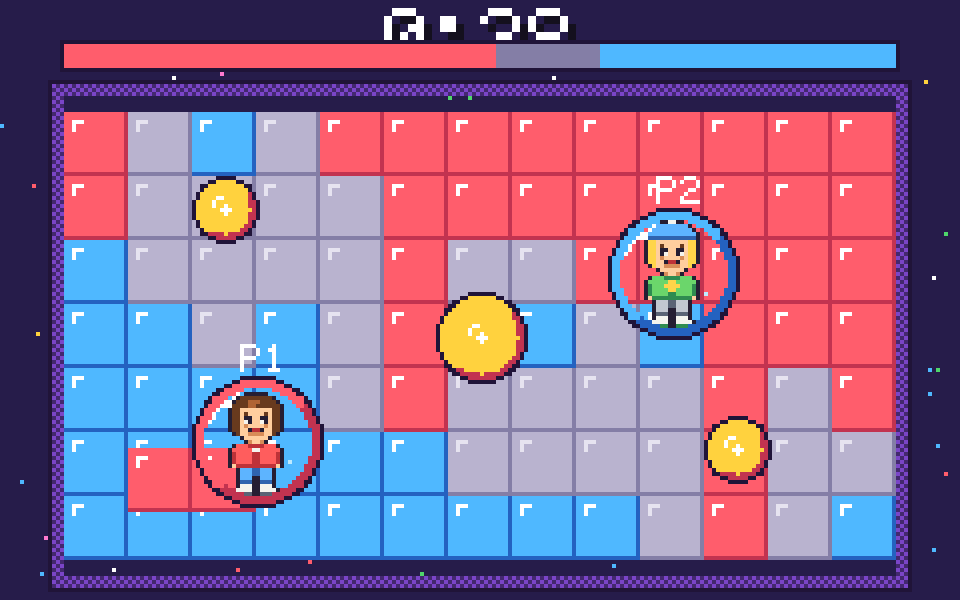
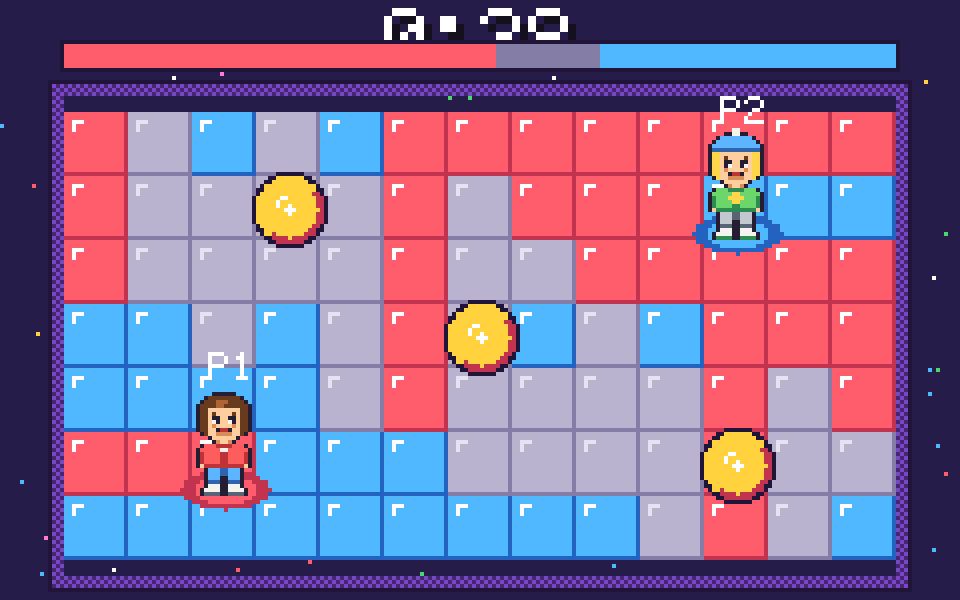
TILE BLITZ art: drop bubbles, grid-align all paint, colored player pads
- Removed the bubble gimmick (not needed); fighters paint the floor directly.
- Each player marked by a coloured ground pad (red P1 / blue P2) tying them to
  their paint colour, instead of a bubble.
- Fixed alignment: every painted tile now snaps to the floor grid (players sit
  on grid cells; painted cells are grid-aligned, no off-grid trail).

Claude-Session: https://claude.ai/code/session_01BmHu9ZjHHfJoGBLXT33Kpc

diff --git a/art/tilebangers.py b/art/tilebangers.py
@@ -44,24 +44,16 @@ TILE_B = tile(PAL["B"], PAL["b"])
 TILES = {0: TILE_N, 1: TILE_R, 2: TILE_B}
 
 # ---------------------------------------------------------------------------
-# glossy bubble ring (drawn over a fighter); light/dark = owner colour
+# colored ground pad under a fighter (marks who they are / their paint colour)
 # ---------------------------------------------------------------------------
-def bubble(img, cx, cy, r, light, dark):
+def pad(img, cx, feetY, light, dark):
     px = img.load(); w, h = img.size
-    for y in range(cy - r - 1, cy + r + 2):
-        for x in range(cx - r - 1, cx + r + 2):
-            d = math.hypot(x - cx, y - cy)
-            if r - 0.4 <= d <= r + 0.5: setpx(px, w, h, x, y, col("K"))
-            elif r - 2.6 <= d < r - 0.4:
-                c = light if (x - cx) + (y - cy) < -1 else (dark if (x - cx) + (y - cy) > 2 else light)
-                setpx(px, w, h, x, y, (*c, 255))
-    # shine: white arc top-left + a glint
-    for t in range(20, 70, 6):
-        a = math.radians(t)
-        setpx(px, w, h, int(cx + (r - 4) * -math.cos(a)), int(cy + (r - 4) * -math.sin(a)), col("W"))
-    setpx(px, w, h, cx - r // 2, cy - r // 2 - 1, col("W")); setpx(px, w, h, cx - r // 2 + 1, cy - r // 2 - 1, col("W"))
-    # faint cyan reflection bottom-right
-    setpx(px, w, h, cx + r // 2, cy + r // 3, col("C"))
+    rw, rh = 11, 5
+    for y in range(-rh, rh + 1):
+        for x in range(-rw, rw + 1):
+            d = (x / rw) ** 2 + (y / rh) ** 2
+            if d <= 1.0:
+                setpx(px, w, h, cx + x, feetY + y, (*(dark if d > 0.5 else light), 255))
 
 def bumper(img, cx, cy, r):
     px = img.load(); w, h = img.size
@@ -101,9 +93,9 @@ def assets_sheet():
     cell(lambda im: im.alpha_composite(TILE_N, (9, 9)), "TILE")
     cell(lambda im: im.alpha_composite(TILE_R, (9, 9)), "P1 TILE")
     cell(lambda im: im.alpha_composite(TILE_B, (9, 9)), "P2 TILE")
-    def b1(im): fighter(im, "PIXEL", 17, 26); bubble(im, 17, 17, 15, PAL["R"], PAL["r"])
-    def b2(im): fighter(im, "BYTE", 17, 26); bubble(im, 17, 17, 15, PAL["B"], PAL["b"])
-    cell(b1, "P1 BUBBLE"); cell(b2, "P2 BUBBLE")
+    def b1(im): pad(im, 17, 29, PAL["R"], PAL["r"]); fighter(im, "PIXEL", 17, 31)
+    def b2(im): pad(im, 17, 29, PAL["B"], PAL["b"]); fighter(im, "BYTE", 17, 31)
+    cell(b1, "P1"); cell(b2, "P2")
     cell(lambda im: bumper(im, 17, 17, 13), "BUMPER")
     cell(lambda im: star(im, 17, 17, "Y"), "PUNCH")
     SCcanvas = Image.new("RGBA", (len(cells) * 60, 84), (*PAL["D"], 255))
@@ -144,32 +136,34 @@ def arena():
                 px[x, y] = col("P") if (x + y) % 2 == 0 else col("p")
     for x in range(fx - 4, fx + fw + 4): px[x, fy - 4] = col("K"); px[x, fy + fh + 3] = col("K")
     for y in range(fy - 4, fy + fh + 4): px[fx - 4, y] = col("K"); px[fx + fw + 3, y] = col("K")
-    # ---- tile floor (paint pattern: red bottom-left, blue top-right, neutral middle) ----
+    # ---- tile floor: every painted tile snaps to the grid ----
     cols, rows = fw // 16, fh // 16
     ox = fx + (fw - cols * 16) // 2; oy = fy + (fh - rows * 16) // 2
+    def cellxy(c, r): return (ox + c * 16, oy + r * 16)
     def state(c, r):
-        import random as _r
         v = (c / cols) - (r / rows)
-        if v < -0.28: return 2
-        if v > 0.30: return 1
+        if v < -0.30: return 2
+        if v > 0.32: return 1
         return (1 if ((c * 7 + r * 5) % 5 == 0) else (2 if ((c * 3 + r) % 6 == 0) else 0))
+    grid = [[state(c, r) for c in range(cols)] for r in range(rows)]
+    # players sit on grid cells; their cell + a short trail are painted (grid-aligned)
+    p1c, p1r = 2, rows - 2
+    p2c, p2r = cols - 3, 1
+    for dc in range(-2, 1): grid[p1r][max(0, p1c + dc)] = 1
+    for dc in range(0, 3): grid[p2r][min(cols - 1, p2c + dc)] = 2
     for r in range(rows):
         for c in range(cols):
-            img.alpha_composite(TILES[state(c, r)], (ox + c * 16, oy + r * 16))
-    # ---- bumpers ----
-    bumper(img, ox + cols * 16 // 2, oy + rows * 16 // 2, 11)
-    bumper(img, ox + 16 * 2 + 8, oy + 16 + 8, 8); bumper(img, ox + fw - 40, oy + fh - 36, 8)
-    # ---- a paint trail + the two bubbles mid-roll, bumping ----
-    p1x, p1y = ox + 16 * 3, oy + rows * 16 - 30
-    p2x, p2y = ox + cols * 16 - 56, oy + 40
-    for (tx, ty) in [(p1x - 30, p1y + 8), (p1x - 16, p1y + 6)]:
-        img.alpha_composite(TILE_R, ((tx // 16) * 16, (ty // 16) * 16))
-    fighter(img, "PIXEL", p1x, p1y + 14); bubble(img, p1x, p1y, 16, PAL["R"], PAL["r"])
-    fighter(img, "BYTE", p2x, p2y + 14, flip=True); bubble(img, p2x, p2y, 16, PAL["B"], PAL["b"])
-    star(img, (p1x + p2x) // 2, (p1y + p2y) // 2, "Y")  # bump spark
-    # ---- player name tags ----
-    t1 = pf.text("P1", 1, (255, 255, 255)); img.alpha_composite(t1, (p1x - 4, p1y - 24))
-    t2 = pf.text("P2", 1, (255, 255, 255)); img.alpha_composite(t2, (p2x - 4, p2y - 24))
+            img.alpha_composite(TILES[grid[r][c]], cellxy(c, r))
+    # ---- bumpers (centred on tile cells so nothing looks off-grid) ----
+    for (bc, br) in [(cols // 2, rows // 2), (3, 1), (cols - 3, rows - 2)]:
+        x, y = cellxy(bc, br); bumper(img, x + 8, y + 8, 9)
+    # ---- the two fighters standing on their cells, with coloured pads ----
+    x1, y1 = cellxy(p1c, p1r); cx1, fy1 = x1 + 8, y1 + 16
+    x2, y2 = cellxy(p2c, p2r); cx2, fy2 = x2 + 8, y2 + 16
+    pad(img, cx1, fy1 - 2, PAL["R"], PAL["r"]); fighter(img, "PIXEL", cx1, fy1)
+    pad(img, cx2, fy2 - 2, PAL["B"], PAL["b"]); fighter(img, "BYTE", cx2, fy2, flip=True)
+    t1 = pf.text("P1", 1, (255, 255, 255)); img.alpha_composite(t1, (cx1 - 4, fy1 - 36))
+    t2 = pf.text("P2", 1, (255, 255, 255)); img.alpha_composite(t2, (cx2 - 4, fy2 - 36))
 
     up = img.resize((W * SC, H * SC), Image.NEAREST)
     up.convert("RGB").save(os.path.join(OUT, "tilebangers_arena.png"))
